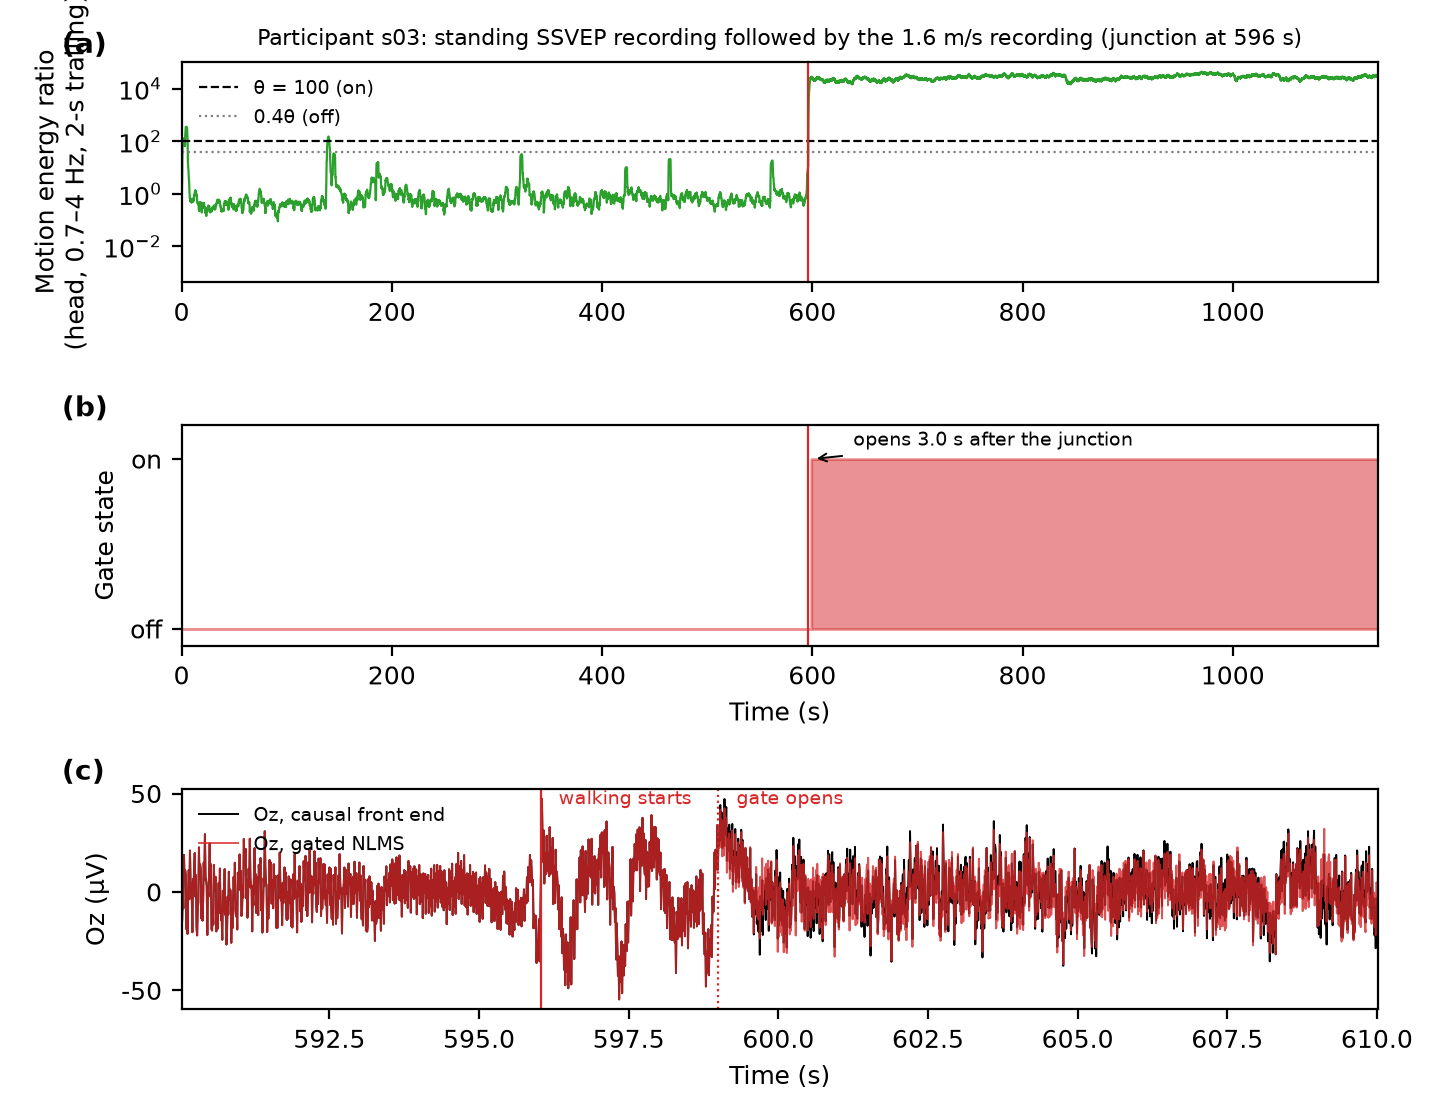
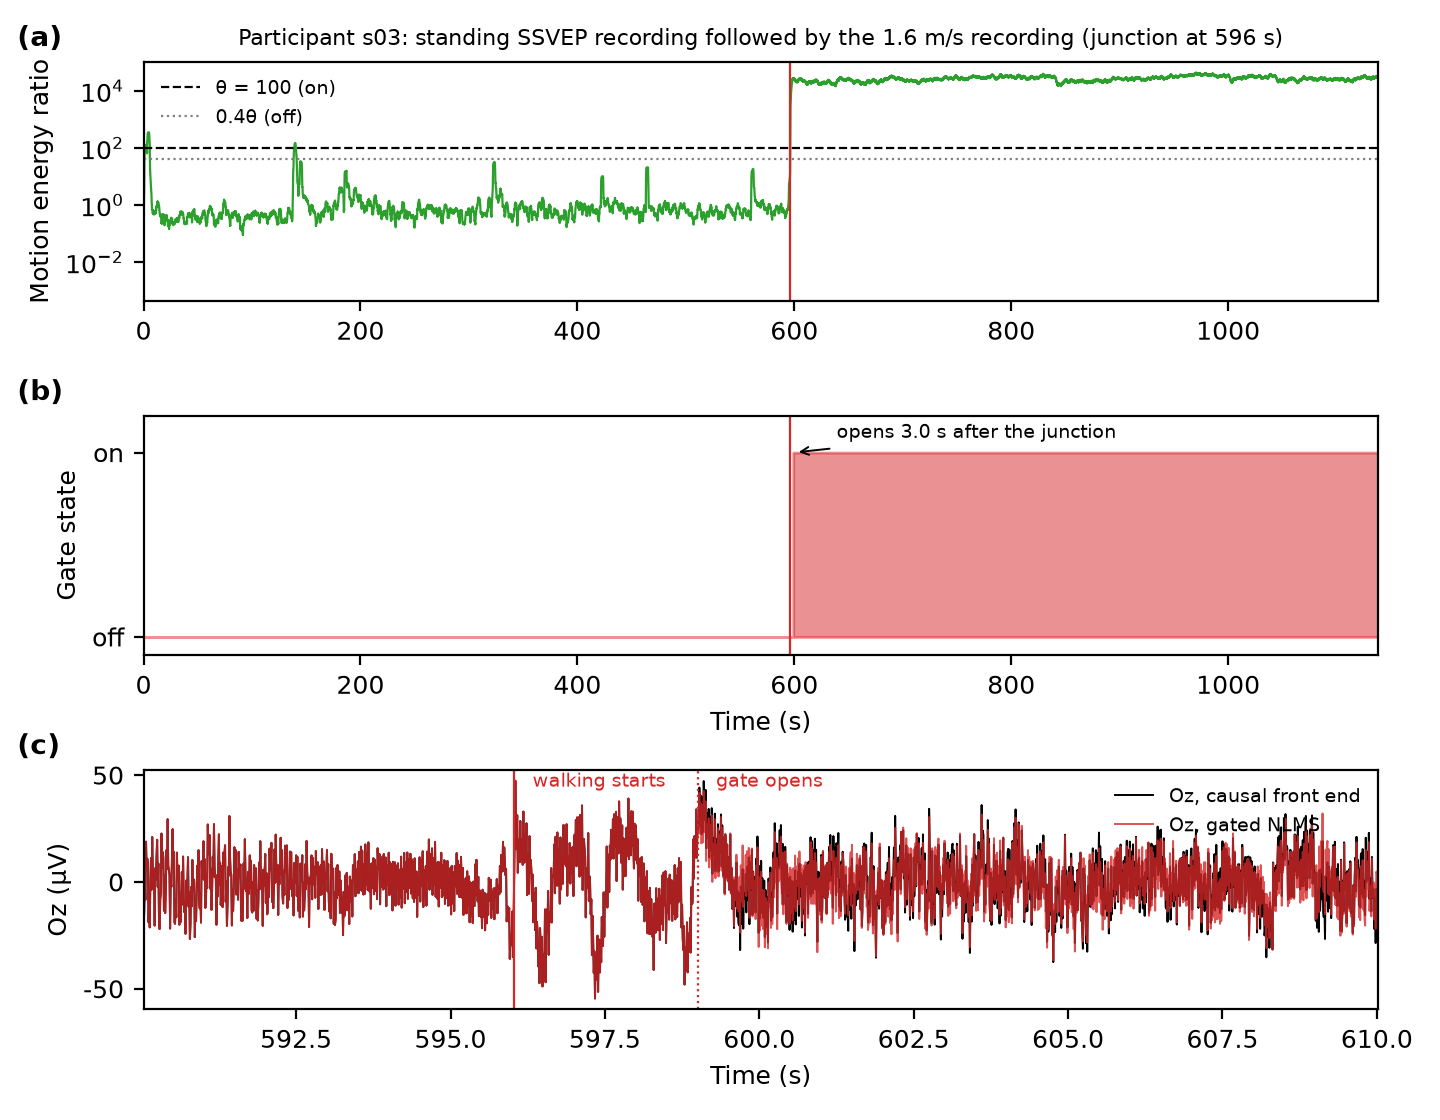
Figure layout fixes: panel labels, legends, colorbar

diff --git a/code/make_figures_extra.py b/code/make_figures_extra.py
@@ -157,7 +157,7 @@ if 'gate' in FIGS:
     ax = axes[0]
     ax.semilogy(t, np.maximum(e, 1e-3), color='tab:green', lw=0.8)
     ax.axhline(100, color='k', ls='--', lw=0.8, label='θ = 100 (on)'); ax.axhline(40, color='gray', ls=':', lw=0.8, label='0.4θ (off)')
-    ax.axvline(tj, color='tab:red', lw=0.8); ax.set_ylabel('Motion energy ratio\n(head, 0.7–4 Hz, 2-s trailing)')
+    ax.axvline(tj, color='tab:red', lw=0.8); ax.set_ylabel('Motion energy ratio')
     ax.legend(fontsize=7, loc='upper left', frameon=False); ax.set_title(f'Participant {SUB}: standing SSVEP recording followed by the 1.6 m/s recording (junction at {tj:.0f} s)', fontsize=8)
     ax = axes[1]
     ax.fill_between(t, 0, gate, step='post', color='tab:red', alpha=.5); ax.set_ylim(-0.1, 1.2); ax.set_yticks([0, 1]); ax.set_yticklabels(['off', 'on'])
@@ -170,11 +170,12 @@ if 'gate' in FIGS:
     ax.plot(t[w0:w1], X[oz, w0:w1], color='k', lw=0.7, label='Oz, causal front end')
     ax.plot(t[w0:w1], Xc[oz, w0:w1], color='tab:red', lw=0.7, alpha=.8, label='Oz, gated NLMS')
     ax.axvline(tj, color='tab:red', lw=0.8); ax.axvline(first_on, color='tab:red', ls=':', lw=0.8)
-    ax.set_xlim(t[w0], t[w1 - 1]); ax.set_xlabel('Time (s)'); ax.set_ylabel('Oz (µV)'); ax.legend(fontsize=7, loc='upper left', frameon=False)
+    ax.set_xlim(t[w0], t[w1 - 1]); ax.set_xlabel('Time (s)'); ax.set_ylabel('Oz (µV)'); ax.legend(fontsize=7, loc='upper right', frameon=False)
     ax.text(tj + 0.3, ax.get_ylim()[1] * 0.85, 'walking starts', fontsize=7, color='tab:red'); ax.text(first_on + 0.3, ax.get_ylim()[1] * 0.85, 'gate opens', fontsize=7, color='tab:red')
+    fig.tight_layout()
     for k, a in enumerate(axes):
-        a.text(-0.1, 1.04, f'({chr(97 + k)})', transform=a.transAxes, fontsize=10, weight='bold')
-    fig.tight_layout(); save(fig, 'fig_gate')
+        pos = a.get_position(); fig.text(0.012, pos.y1 + 0.008, f'({chr(97 + k)})', fontsize=10, weight='bold', va='bottom')
+    save(fig, 'fig_gate')
     print('fig_gate done', flush=True)
 
 
@@ -201,8 +202,8 @@ if 'probe' in FIGS:
 
 
     res = dict(Parallel(n_jobs=N_JOBS)(delayed(removed_var)(s) for s in subs))
-    fig = plt.figure(figsize=(7.2, 3.4))
-    gs = fig.add_gridspec(1, 4, width_ratios=[1.6, 1, 1, 1])
+    fig = plt.figure(figsize=(7.2, 3.6))
+    gs = fig.add_gridspec(1, 4, width_ratios=[1.6, 1, 1, 1], left=0.09, right=0.86, bottom=0.17, top=0.86, wspace=0.12)
     ax = fig.add_subplot(gs[0, 0])
     sp_ = ['0.0', '0.8', '1.6', '2.0']
     for key, lab, col, ls in [('none_corr_true', 'attended freq., no processing', 'k', '-'), ('none_corr_wrong', 'best other freq., no processing', 'k', '--'),
@@ -211,8 +212,8 @@ if 'probe' in FIGS:
         v = [P[f'{s}_{key}']['mean'] for s in sp_]
         ax.plot(range(4), v, color=col, ls=ls, marker='o', ms=3, lw=1, label=lab)
     ax.set_xticks(range(4)); ax.set_xticklabels(['0', '0.8', '1.6', '2.0']); ax.set_xlabel('Treadmill speed (m/s)'); ax.set_ylabel('Mean CCA correlation per trial')
-    ax.legend(fontsize=5.5, frameon=False, loc='center right'); ax.grid(alpha=.3); ax.set_title('SSVEP signal probe', fontsize=8)
-    ax.text(-0.25, 1.05, '(a)', transform=ax.transAxes, fontsize=10, weight='bold')
+    ax.legend(fontsize=5.5, frameon=False, loc='upper right'); ax.grid(alpha=.3); ax.set_title('SSVEP signal probe', fontsize=8)
+    ax.text(-0.3, 1.06, '(a)', transform=ax.transAxes, fontsize=10, weight='bold')
     vmax = 0
     maps = {}
     for sp in ['0.8', '1.6', '2.0']:
@@ -225,9 +226,9 @@ if 'probe' in FIGS:
         clab, m, n = maps[sp]
         im, _ = mne.viz.plot_topomap(m, info, axes=ax, show=False, cmap='Reds', vlim=(0, vmax), contours=4, sensors=True)
         ax.set_title(f'{sp} m/s (n={n})', fontsize=8)
-    cb = fig.colorbar(im, ax=fig.axes[1:], shrink=0.7, pad=0.02); cb.set_label('Fraction of EEG variance removed by reg', fontsize=7); cb.ax.tick_params(labelsize=6)
-    fig.text(0.62, 0.95, 'Variance removed by lagged IMU regression (ERP recordings)', ha='center', fontsize=8)
-    fig.text(0.40, 0.95, '(b)', fontsize=10, weight='bold')
+    cax = fig.add_axes([0.885, 0.3, 0.012, 0.42]); cb = fig.colorbar(im, cax=cax); cb.set_label('Fraction of EEG variance removed by reg', fontsize=7); cb.ax.tick_params(labelsize=6)
+    fig.text(0.43, 0.955, 'Variance removed by lagged IMU regression (ERP recordings)', ha='left', fontsize=8)
+    fig.text(0.375, 0.945, '(b)', fontsize=10, weight='bold')
     save(fig, 'fig_probe_topo')
     json.dump({sp: {'channels': maps[sp][0], 'mean_removed_fraction': maps[sp][1].tolist(), 'n': maps[sp][2]} for sp in maps}, open(os.path.join(ROOT, 'results', 'p1_clean_eval', 'removed_variance_topo.json'), 'w'), indent=1)
     print('fig_probe_topo done', flush=True)

diff --git a/code/make_figures_en.py b/code/make_figures_en.py
@@ -150,6 +150,6 @@ for k, sp in enumerate(['0.8', '1.6', '2.0']):
         ax.set_ylabel('Oz median PSD ($\\mu$V$^2$/Hz)'); ax.legend(fontsize=6, loc='upper right', frameon=False)
     if k == 2:
         ax2.set_ylabel('Head acceleration PSD (a.u.)', fontsize=7, color='tab:green')
-        ax2.legend(fontsize=6, loc='lower left', frameon=False)
+        ax2.legend(fontsize=6, loc='upper right', frameon=False)
 fig.tight_layout(); save(fig, 'fig4_spectra')
 print('figures written to', OUT)
